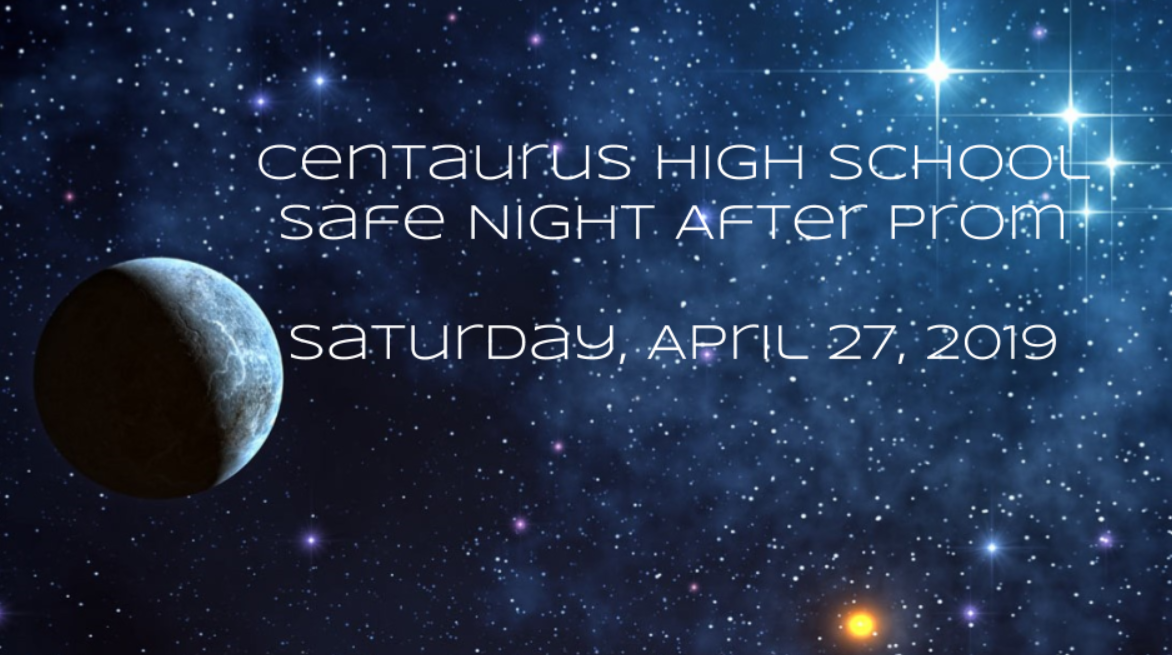
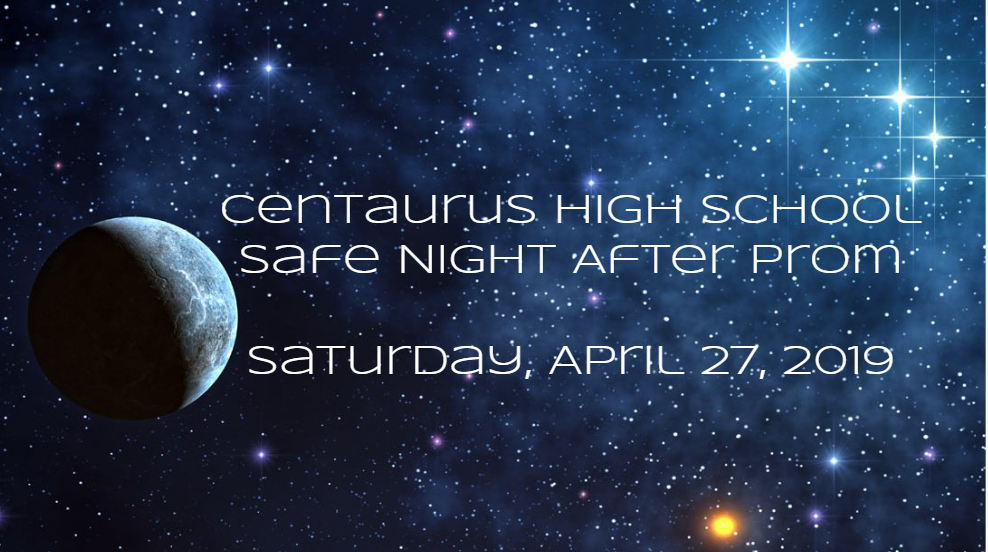
fix graphic align and about paragraph

diff --git a/index.html b/index.html
@@ -16,8 +16,8 @@
 		<!-- Header -->
 			<section id="header">
 				<header>
-					<span class="image fit"><img src="images/CSNAP-logo-tag-web.png" alt="" /></span>
-					<h1 id="logo"><a href="#">CSNAP</a></h1>
+					<span class="image fit"><img src="images/CSNAP-logo-tag-web.png" alt="CSNAP" /></span>
+					<h2 id="logo"><a href="#">April 27, 2019</a></h2>
 				</header>
 				<nav id="nav">
 					<ul>
@@ -45,16 +45,18 @@
 						<!-- One -->
 							<section id="one">
 								<div class="image main" data-position="center">
-									<img src="images/space_odyessey_banner.png" alt="" />
+									<img src="images/space_odyessey_banner.png" alt="Centaurus Safe Night After Prom April 27 2019" />
 								</div>
 								<div class="container">
 									<header class="major">
 										<h3>Centaurus Safe Night After Prom</h3>
 									</header>
+									<img src="https://www.justfundraising.com/fundraising-thermometer/thermo.php?id=11522" 
+              alt="fundraising thermometer" style="float:right;max-width:50%;" /> 
 									<b>For 20+ years</b> parents from Centaurus High School have been hosting an After Prom party for our junior and senior students. After Prom is truly a labor of love and a testament to our community’s caring guardianship of its young people.
 									<p>
 									 
-									
+									<br>
 									After Prom is probably the biggest party that a teenager will ever attend. This year CSNAP is partnering with the Lafayette YMCA and the theme is "Space Odyssey". The decorations will be unbelievable! There will be swimming, ice skating, inflatables, casino, music, photos, food, games, and prizes - all designed to prevent drinking and other unsafe activities. We want to send a strong message to our students that our community supports safe and healthy choices. 
 									<p>
 									 
